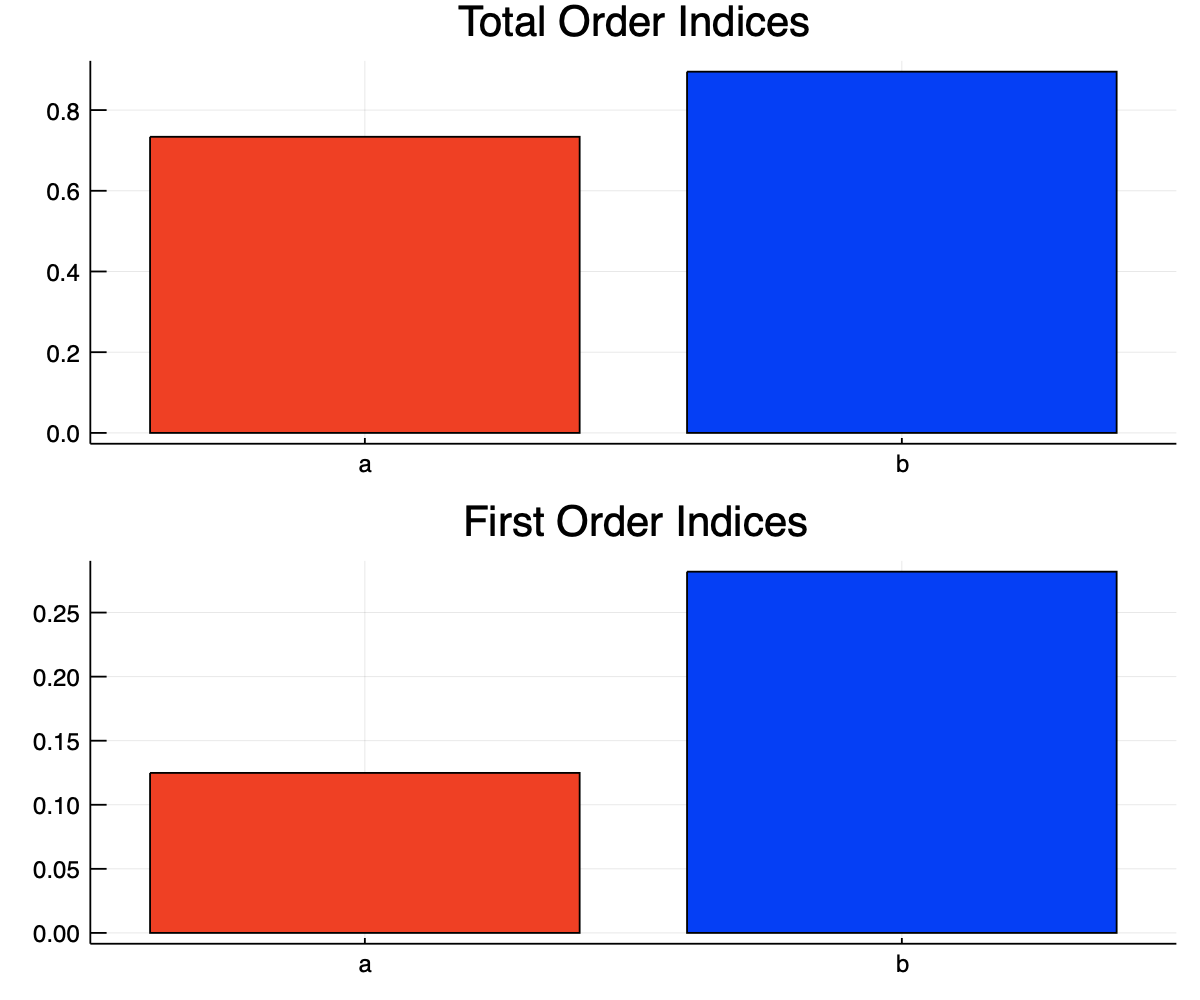
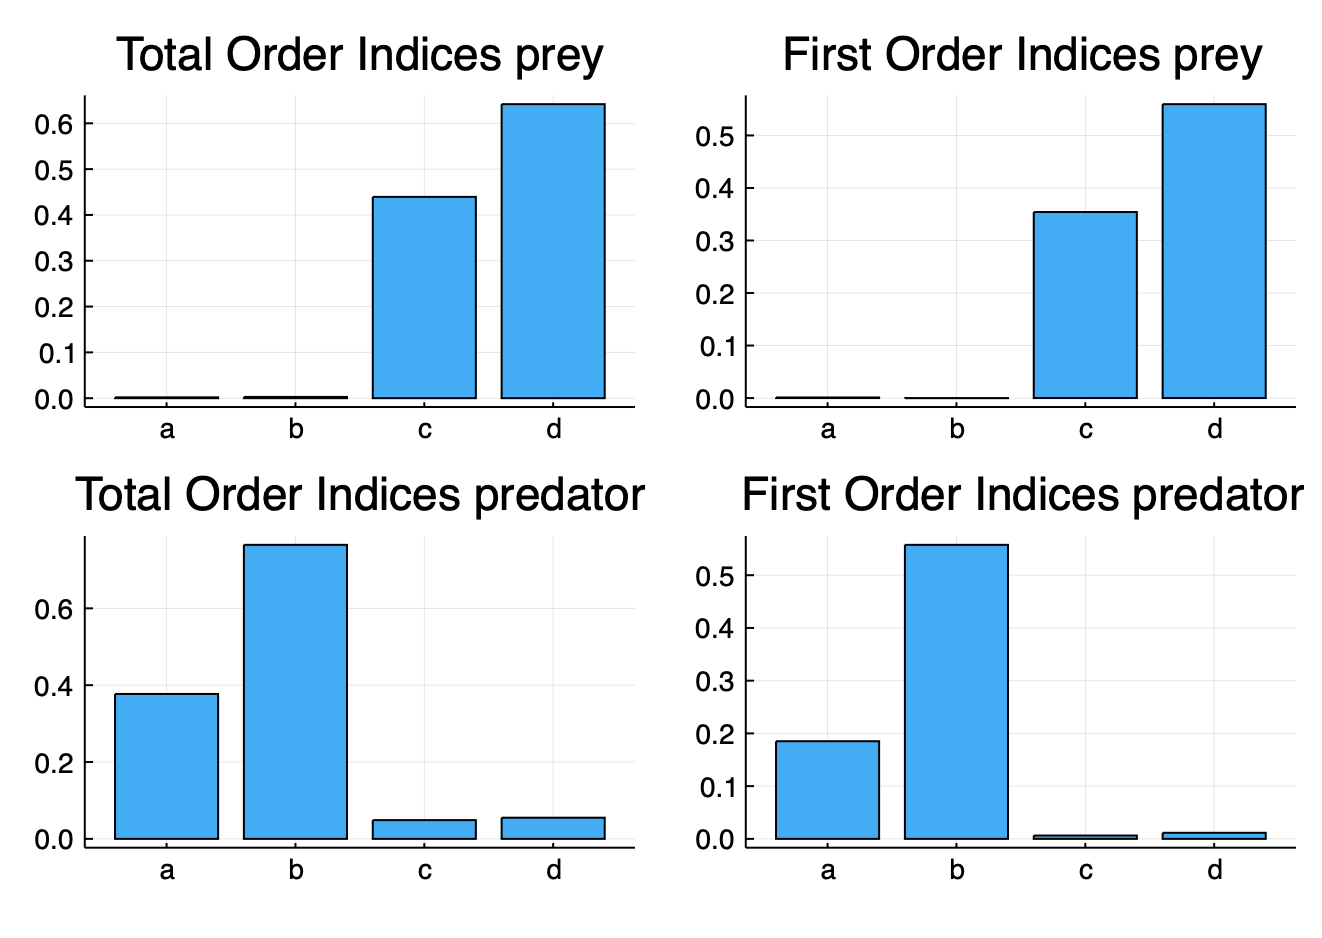
Update example for gsa

diff --git a/docs/src/analysis/global_sensitivity.md b/docs/src/analysis/global_sensitivity.md
@@ -87,7 +87,7 @@ The `Sobol` object has as its fields the `order` of the indices to be estimated.
 The `Ei_estimator` kwarg can take `:Homma1996`, `:Sobol2007` and `:Jansen1999` 
 which signify the different ways of estimating the indices.   
 
-## Regression Method
+<!-- ## Regression Method
 
 If a sample of inputs and outputs `` (X^n, Y^n) = (X^{i}_1, . . . , X^{i}_d, Y_i)_{i=1..n} ``
 is available, it is possible to fit a linear model explaining the behavior of Y given the
@@ -128,71 +128,77 @@ Again, `f` and `param_range` are the same as above. An array of the true paramet
 that lie within the `param_range` bounds are passed through the `param_fixed` argument.
 `n` determines the number of simulations of the model run to generate the data points
 of the solution and parameter values and the `coeffs` kwarg lets you decide the
-coefficients you want.
+coefficients you want. -->
 
 ## GSA example
 
-Let's create the ODE problem to run our GSA on.
+Let's run GSA on the Lotka-Volterra model to and study the sensitivity of the maximum of predator population and the average prey population.
+
+```julia
+using DiffEqSensitivity, Statistics, OrdinaryDiffEq #load packages
+```
 
 ```julia
 function f(du,u,p,t)
-  du[1] = p[1]*u[1] - p[2]*u[1]*u[2]
-  du[2] = -3*u[2] + u[1]*u[2]
+  du[1] = p[1]*u[1] - p[2]*u[1]*u[2] #prey
+  du[2] = -p[3]*u[2] + p[4]*u[1]*u[2] #predator
 end
 u0 = [1.0;1.0]
 tspan = (0.0,10.0)
-p = [1.5,1.0]
-prob = ODEProblem(f,u0,tspan,p)
+p = [1.5,1.0,3.0,1.0]
+prob = ODEProblem(f,u0,tspan,p) 
 t = collect(range(0, stop=10, length=200))
 ```
 For Morris Method
 
 ```julia
 f1 = function (p)
-        prob1 = remake(prob;p=p)
-        Array(solve(prob1,Tsit5();saveat=t))
-    end
-m = gsa(f1,Morris(total_num_trajectory=1000,num_trajectory=150),[[1,5],[0.5,5]])
+  prob1 = remake(prob;p=p)
+  sol = solve(prob1,Tsit5();saveat=t)
+  [mean(sol[1,:]), maximum(sol[2,:])]
+end
+m = gsa(f1,Morris(total_num_trajectory=1000,num_trajectory=150),[[1,5],[1,5],[1,5],[1,5]])
 ```
 Let's get the means and variances from the `MorrisResult` struct.
 
 ```julia
 m.means
 2×2 Array{Float64,2}:
- 7.04345  6.91096
- 3.21794  3.01227
+ 0.474053  0.114922
+ 1.38542   5.26094 
 
 m.variances
 2×2 Array{Float64,2}:
- 33.0351   28.2267
-  6.65526   5.483 
+ 0.208271    0.0317397
+ 3.07475   118.103    
+```
+
+Let's plot the result
+
+```julia
+scatter(m.means[1,:], m.variances[1,:],series_annotations=[:a,:b,:c,:d],color=:gray)
+scatter(m.means[2,:], m.variances[2,:],series_annotations=[:a,:b,:c,:d],color=:gray)
 ```
 
 For Sobol Method
 
 ```julia
-f1 = function (p)
-        prob1 = remake(prob;p=p)
-        Array(solve(prob1,Tsit5();saveat=t))[end]
-    end
-
 N = 10000
-lb = [1.0, 0.5]
-ub = [5.0, 5.0]
+lb = [1.0, 1.0, 1.0, 1.0]
+ub = [5.0, 5.0, 5.0, 5.0]
 sampler = SobolSample()
 A,B = QuasiMonteCarlo.generate_design_matrices(N,lb,ub,sampler)
 sobol_result = gsa(f1,Sobol(),A,B)
 ```
 
-We plot the first order and total order Sobol Indices for some timepoints for each of the parameters (`a` and `b`).
+We plot the first order and total order Sobol Indices for the parameters (`a` and `b`).
 
 ```julia
 
-p1 = bar(["a","b"],[sobol_result.ST[1],sobol_result.ST[2]],color=[:red,:blue],title="Total Order Indices",legend=false)
-p2 = bar(["a","b"],[sobol_result.S1[1],sobol_result.S1[2]],color=[:red,:blue],title="First Order Indices",legend=false)
-plo = plot(p1,p2,layout=(2,1),size=(600,500))
-
+p1 = bar(["a","b","c","d"],sobol_result.ST[1,:],title="Total Order Indices prey",legend=false)
+p2 = bar(["a","b","c","d"],sobol_result.S1[1,:],title="First Order Indices prey",legend=false)
+p1_ = bar(["a","b","c","d"],sobol_result.ST[2,:],title="Total Order Indices predator",legend=false)
+p2_ = bar(["a","b","c","d"],sobol_result.S1[2,:],title="First Order Indices predator",legend=false)
+plot(p1,p2,p1_,p2_)
 ```
 ![sobolplot](../assets/sobolbars.png)
-
-Here we plot the Sobol indices of first order and the total Sobol indices for the parameters `a` and `b`. The plots are obtained by getting the Sobol Indices at the final time point of the second dependent variable `y(t)` from the 200-length sensitivities over the entire time span. The length of the bar represents the quantification of the sensitivity of the output to that parameter and hence for the final time point you can say that `y(t)` is more sensitive to `b`, also you can observe how the relative difference between `a` and `b` is larger in the first order than the total order indices, this tells us that most of the contribution of `a` to `y(t)` arises from interactions and it's individual non-interaction contribution is significantly lesser than `b` and vice-versa for `b` as it's first order plot indicates quite high value.
